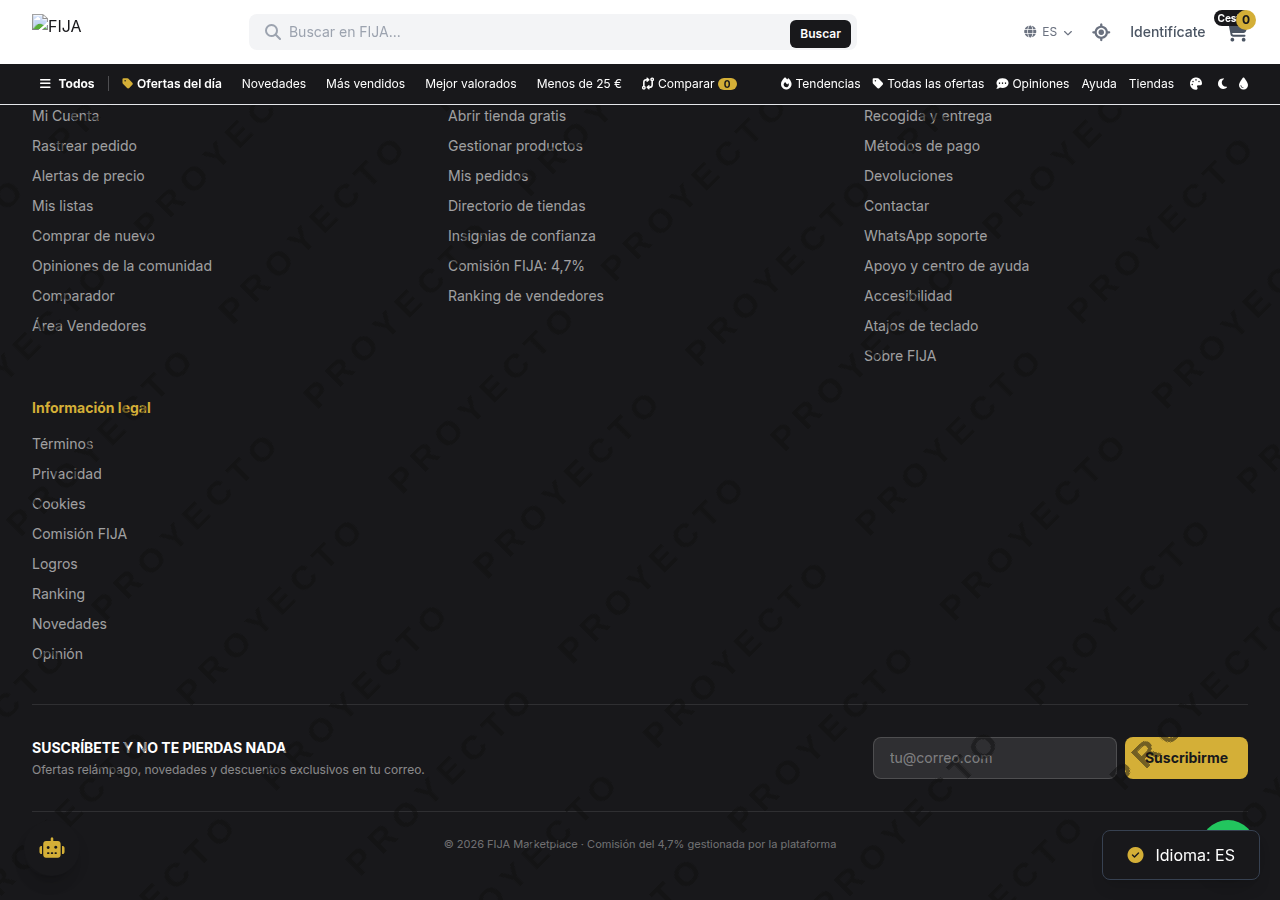
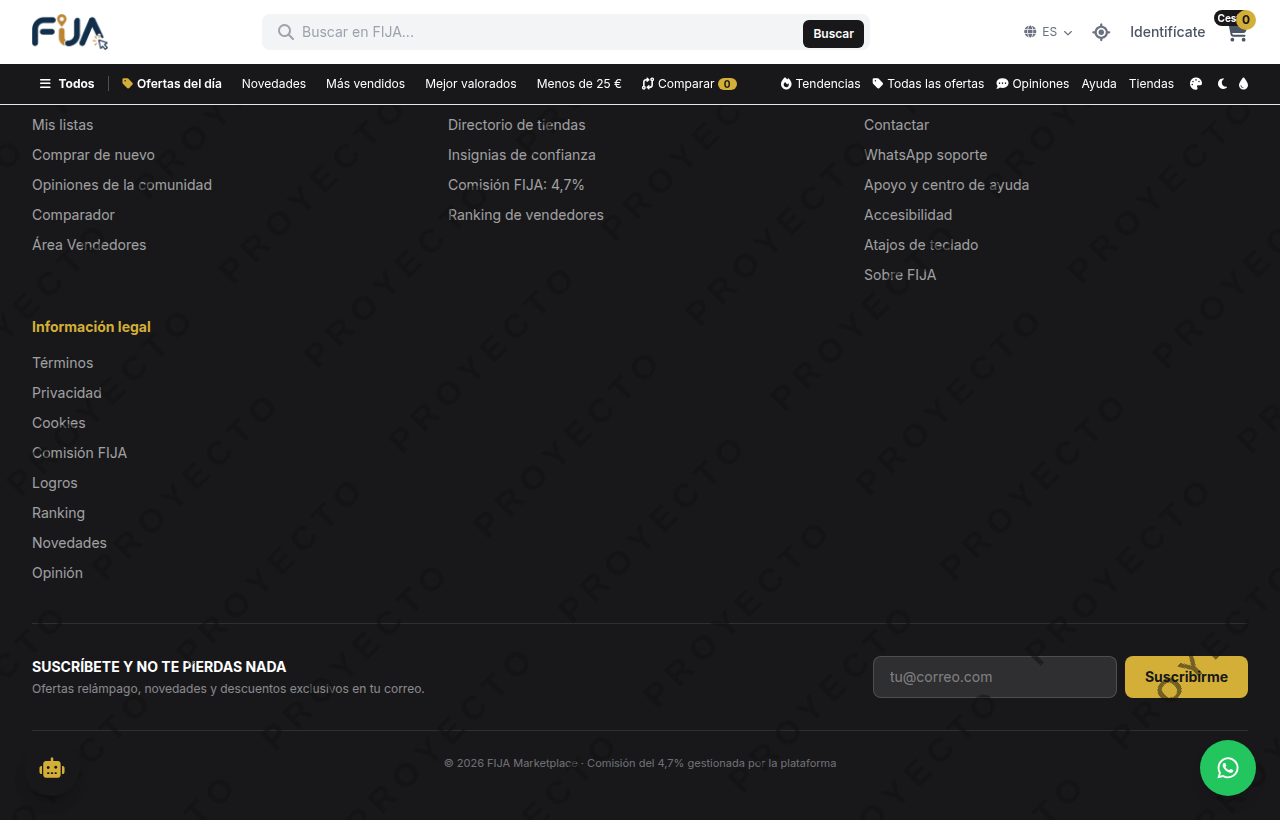
style(footer): elimina tambien la linea de copyright; el pie cierra con la suscripcion

diff --git a/index.html b/index.html
@@ -1127,9 +1127,6 @@
                     <button type="button" onclick="subscribeNewsletter()" class="bg-fija-gold hover:bg-yellow-600 text-fija-900 font-bold px-5 py-2.5 rounded-lg text-sm transition-colors shrink-0 ml-auto">Suscribirme</button>
                 </div>
             </div>
-            <div class="border-t border-white/10 mt-8 pt-6 flex items-center justify-center text-[11px] text-white/40">
-                <p>© 2026 FIJA Marketplace · Comisión del 4,7% gestionada por la plataforma</p>
-            </div>
         </div>
     </footer>
 
